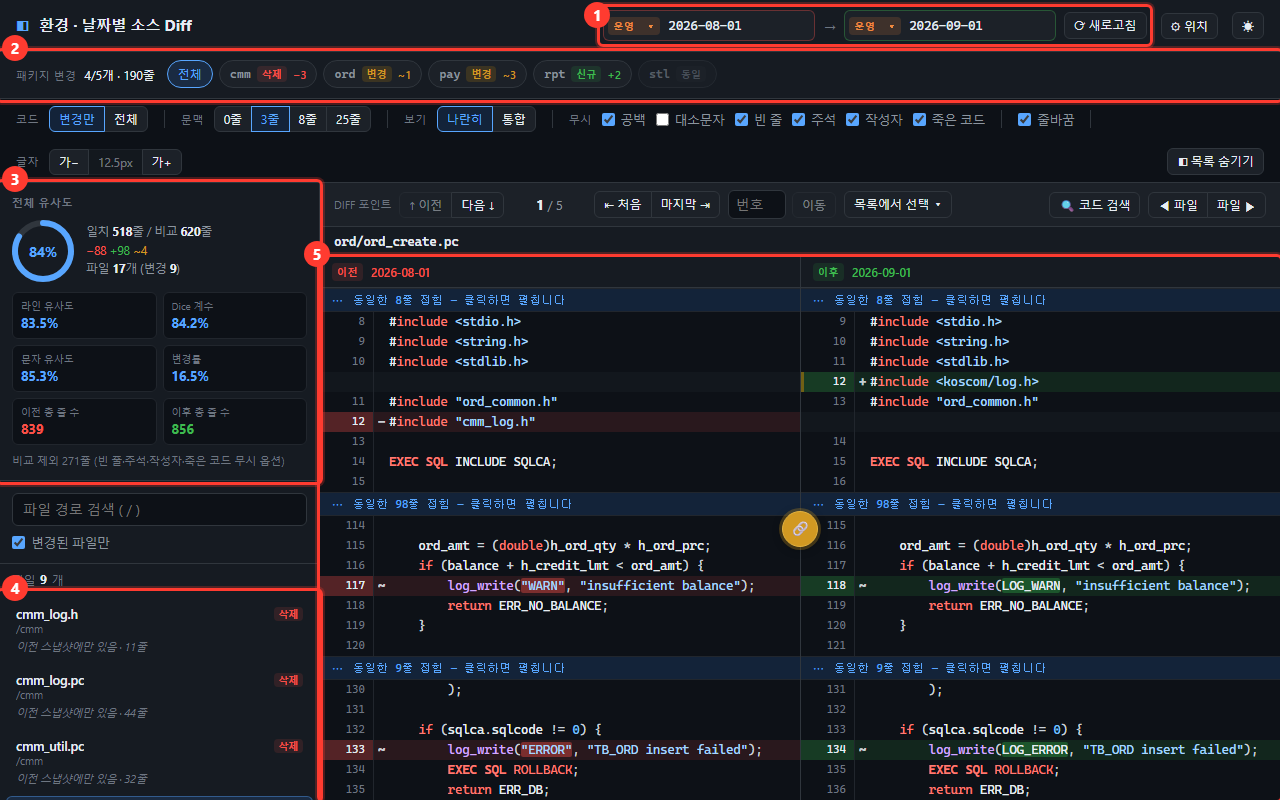
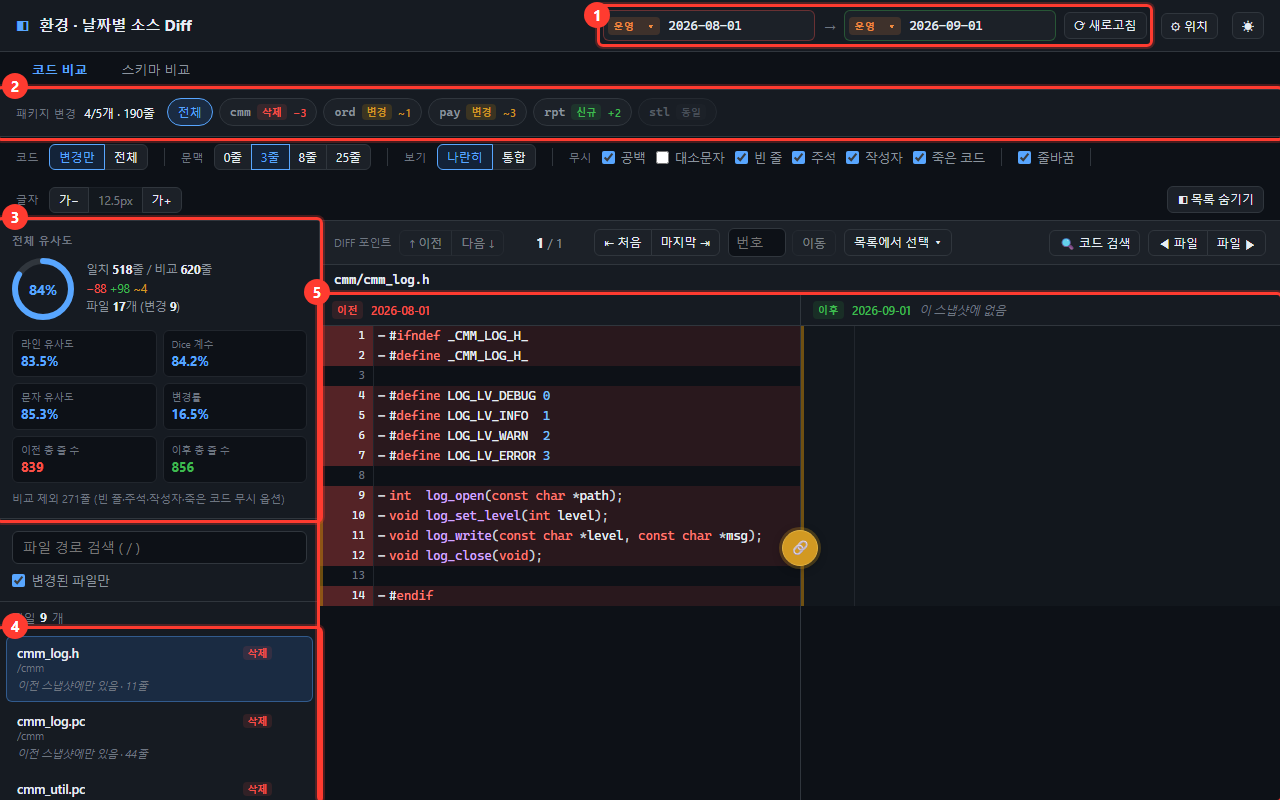
docs: 통합된 컨트롤을 반영하고 스키마 화면 캡처를 더한다
설명서 7장에 스키마 화면 그림(08-schema.png)과 영역 표를 넣고, "날짜가 저절로
맞춰집니다" 절을 "날짜는 위에서 똑같이 고릅니다" 로 다시 썼다. 운영↔운영 ·
테스트↔테스트가 된다는 것과, 탭마다 날짜를 따로 기억한다는 것을 적었다.

scripts/shot.html 에 스키마 장면을 더했다. 화면이 바뀌면 그림도 같이 낡으므로
나머지 일곱 장도 함께 다시 뽑았다 (모드 탭이 생겨 위쪽이 달라졌다).

Changed region(s): [[0.0, 0.0312, 1.0, 1.0], [0.7188, 0.9062, 0.9062, 1.0], [0.9375, 0.9062, 0.9688, 0.9688]]

diff --git a/scripts/shot.html b/scripts/shot.html
@@ -45,7 +45,7 @@
       const params = new URLSearchParams(location.search)
       const scene = params.get('scene') ?? 'overview'
 
-      const seed = (env = { left: 'prod', right: 'prod' }, excludeFile = '') => {
+      const seed = (env = { left: 'prod', right: 'prod' }, excludeFile = '', mode = 'code') => {
         // 프리셋을 고른 상태로 두면 **저장값이 아니라 프리셋의 현재 값**이 쓰인다
         // (features/settings/sourceSettings.ts). 제외 목록을 넣을 때는 풀어 둬야 먹는다.
         localStorage.setItem(
@@ -58,6 +58,11 @@
         localStorage.setItem('cd-env', JSON.stringify(env))
         localStorage.setItem('cd-theme', 'dark')
         localStorage.setItem('cd-scope', 'changed')
+        // 앞선 촬영이 남긴 값이 다음 장면으로 새면 엉뚱한 화면을 찍는다 — 매번 못 박는다
+        localStorage.setItem('cd-mode', mode)
+        localStorage.removeItem('cd-my-exclude')
+        localStorage.removeItem('cd-my-exclude-schema')
+        localStorage.removeItem('cd-schema-kinds')
       }
 
       const sleep = (ms) => new Promise((r) => setTimeout(r, ms))
@@ -156,6 +161,16 @@
           mark(doc, '.filelist .file-item', 3, 4)
         },
 
+        /* 8. 스키마 비교 — 어느 영역이 무엇인지 */
+        async schema(doc) {
+          mark(doc, '.mode-tabs', 1, 4)
+          mark(doc, '.snapshot-picker', 2)
+          mark(doc, '.schema-band .package-chips', 3, 4)
+          mark(doc, byText(doc, '.optionbar .group', '종류'), 4, 4)
+          mark(doc, '.filelist', 5, 4)
+          mark(doc, '.schema-view .schema-section', 6, 4)
+        },
+
         /* 7. 제외 목록으로 접어 둔 파일 — 펼친 상태로 찍는다 */
         async exclude(doc) {
           const toggle = await until(() => doc.querySelector('.excl-toggle'))
@@ -178,14 +193,18 @@
 
       const ENV = {
         crossenv: { left: 'prod', right: 'test' },
+        schema: { left: 'prod', right: 'test' },
       }
+
+      /** 스키마 화면을 찍는 장면들 — 씨앗과 기다릴 것이 다르다 */
+      const SCHEMA_SCENES = new Set(['schema'])
 
       /** 제외 기능은 규칙 파일을 가리켜야 보인다 — 저장소에 함께 든 견본을 쓴다 */
       const EXCLUDE = {
         exclude: './sample-code/exclude.txt',
       }
 
-      seed(ENV[scene], EXCLUDE[scene] ?? '')
+      seed(ENV[scene], EXCLUDE[scene] ?? '', SCHEMA_SCENES.has(scene) ? 'schema' : 'code')
 
       const frame = document.getElementById('app')
       frame.src = '/'
@@ -193,12 +212,16 @@
       await new Promise((r) => frame.addEventListener('load', r, { once: true }))
       const doc = frame.contentDocument
 
-      // 비교가 끝나 파일 목록이 뜰 때까지 기다린다
+      // 비교가 끝나 목록이 뜰 때까지 기다린다 (스키마는 테이블 목록이다)
       await until(() => doc.querySelector('.filelist .file-item'))
 
-      // 좌우가 모두 차 있는 파일을 연다.
-      // 삭제된 파일을 고르면 오른쪽 칸이 비어서, 설명서에 실으면 "왜 한쪽이 비었지" 로 읽힌다.
-      if (scene !== 'settings') {
+      if (SCHEMA_SCENES.has(scene)) {
+        // 표가 그려질 때까지 기다린다 — 목록만 뜬 상태로 찍으면 오른쪽이 비어 보인다
+        await until(() => doc.querySelector('.schema-rows .srow'))
+        await sleep(600)
+      } else if (scene !== 'settings') {
+        // 좌우가 모두 차 있는 파일을 연다.
+        // 삭제된 파일을 고르면 오른쪽 칸이 비어서, 설명서에 실으면 "왜 한쪽이 비었지" 로 읽힌다.
         const items = [...doc.querySelectorAll('.filelist .file-item')]
         const changed = items.find((e) => e.querySelector('.badge.s-modified')) ?? items[0]
         changed?.click()

diff --git a/docs/사용설명서.md b/docs/사용설명서.md
@@ -16,7 +16,9 @@
 | ④ | 파일 목록 | 바뀐 파일들. 누르면 오른쪽에 코드가 열립니다 → [4번](#4-바뀐-파일-고르기) |
 | ⑤ | 코드 비교 | 왼쪽·오른쪽을 나란히 → [5번](#5-코드-비교-보기) |
 
-**`스키마 비교` 탭**을 누르면 같은 좌우 선택으로 DB 테이블 정의를 견줍니다 → [7번](#7-데이터-스키마-비교하기)
+화면 맨 위의 **코드 비교 / 스키마 비교** 탭으로 무엇을 견줄지 고릅니다.
+**환경·날짜 고르는 자리는 둘이 똑같습니다** — 탭을 옮겨도 다시 고를 필요가 없습니다
+→ [7번](#7-데이터-스키마-비교하기)
 
 **쓰는 순서는 왼쪽 위에서 오른쪽 아래로 흐릅니다.**
 
@@ -660,7 +662,17 @@ Oracle 패키지(.pks/.pkb)의 `$IF FALSE $THEN` … `$END` 도 같은 규칙으
 ## 7. 데이터 스키마 비교하기
 
 화면 위 **`스키마 비교`** 탭을 누르면 같은 좌우 선택으로 **DB 테이블 정의**를 견줍니다.
-날짜·환경을 다시 고를 필요가 없습니다 — 위에서 고른 그대로 따라갑니다.
+
+![스키마 비교 화면](images/08-schema.png)
+
+| | 이름 | 하는 일 |
+| -- | ---- | ------- |
+| ① | 모드 탭 | 코드 비교 / 스키마 비교 |
+| ② | 비교할 곳 고르기 | **코드 비교와 같은 칸**입니다 → [7-2](#7-2-날짜는-위에서-똑같이-고릅니다) |
+| ③ | 종류 필터 | 컬럼·제약·인덱스가 바뀐 테이블만 추립니다 → [7-5](#7-5-종류-칩으로-좁히기) |
+| ④ | 종류 토글 | 한 종류를 통째로 끕니다 → [7-7](#7-7-안-볼-테이블컬럼-접어-두기) |
+| ⑤ | 테이블 목록 | 누르면 오른쪽에 정의가 열립니다 |
+| ⑥ | 컬럼·제약·인덱스 | 고른 테이블의 좌우 차이 → [7-1](#7-1-무엇을-보여주나) |
 
 > 이 탭이 안 보이거나 "설정돼 있지 않습니다" 가 뜨면, `change/config.ts` 의 프리셋에
 > **schemaRoot** 가 비어 있는 것입니다. 스키마 덤프가 쌓이는 폴더 경로를 적으면 켜집니다.
@@ -683,19 +695,20 @@ Oracle 패키지(.pks/.pkb)의 `$IF FALSE $THEN` … `$END` 도 같은 규칙으
 
 옵션 바의 **전체** 를 누르면 바뀌지 않은 줄까지 다 보입니다 (기본은 **변경만**).
 
-### 7-2. 날짜가 저절로 맞춰집니다
+### 7-2. 날짜는 위에서 똑같이 고릅니다
 
-스키마 덤프는 소스 배포와 **주기가 다릅니다.** 고른 날짜에 딱 맞는 덤프가 없는 것이 보통이라,
-그럴 때는 **그 날짜 이전 중 가장 가까운 것** — 그 시점에 실제로 걸려 있던 스키마 — 을 씁니다.
+**코드 비교와 같은 자리**입니다. 화면 맨 위의 환경·날짜 칸을 그대로 씁니다.
 
-무엇을 골랐는지는 위에 그대로 적힙니다.
+- 양쪽을 **다른 환경**으로 두면 운영 ↔ 테스트 비교 (기본값)
+- 양쪽을 **같은 환경**으로 두면 그 환경의 두 날짜 비교 (운영↔운영 · 테스트↔테스트)
 
-```
-운영  2026-08-01 →  [2026-07-28 ▾]
-      ↑ 고른 날짜      ↑ 실제로 읽은 스키마
-```
+스키마 덤프는 소스 배포와 **주기가 달라** 날짜 목록이 코드와 다릅니다. 그래서 탭마다
+고른 날짜를 따로 기억합니다 — 코드 탭에서 날짜를 바꿔도 스키마 탭 쪽은 그대로입니다.
 
-마음에 안 들면 옆 드롭다운에서 **직접 고르면** 됩니다.
+스키마 탭을 **처음 열 때**는 코드에서 보고 있던 날짜에 맞춰 줍니다. 딱 맞는 덤프가 없으면
+**그 날짜 이전 중 가장 가까운 것** — 그 시점에 실제로 걸려 있던 스키마 — 을 고릅니다.
+
+> 글자 크기는 옵션 바의 **가− / 가+** 로 바꿉니다. 코드 비교와 같은 값을 씁니다.
 
 ### 7-3. "시스템 N 접음" 은 무슨 뜻인가요
 

diff --git a/README.md b/README.md
@@ -513,14 +513,22 @@ IX_*_TMP          이름이 맞는 인덱스·제약 (어느 테이블이든)
 
 | 영역 | 하는 일 |
 | ---- | ------- |
-| 밴드 | 변경된 테이블 수 · 접은 제약 수 · **실제로 읽은 스키마 날짜** · 종류 필터 칩 |
+| 밴드 | 변경된 테이블 수 · 접은 제약 수 · 종류 필터 칩 |
 | 설명 줄 | 파일 맨 위 `#` 주석의 첫 줄. 좌우가 다르면 둘 다 보여준다 (그것도 변경이다) |
 | 왼쪽 목록 | 테이블 목록. 검색은 **컬럼 이름까지** 본다 |
 | 오른쪽 | 고른 테이블의 **컬럼 · 제약 · 인덱스** 3개 섹션 |
+| 옵션 바 | 줄 범위(변경만/전체) · **종류 토글** · 글자 크기 |
 
-**스키마 날짜는 자동으로 맞춘다.** 덤프 주기가 배포 주기와 달라 고른 날짜에 딱 맞는 파일이
-없는 것이 보통이다. 그때는 **그 날짜 이하로 가장 가까운 것**(그 시점에 걸려 있던 스키마)을 고르고,
-무엇을 골랐는지 밴드에 `2026-08-01 →` 로 남긴다. 마음에 안 들면 옆 드롭다운에서 직접 바꾼다.
+**좌우 선택은 코드 비교와 같은 헤더 컨트롤로 한다.** 환경도 날짜도 같은 자리에서 고르고,
+양쪽을 같은 환경으로 두면 그 환경의 두 날짜 비교가 된다 (운영↔운영 · 테스트↔테스트).
+기본은 코드 비교와 같은 운영 ↔ 테스트다.
+
+**목록만 갈아 끼운다.** 스키마 덤프는 배포와 주기가 달라 날짜가 코드와 다르므로, 탭마다
+자기 목록과 자기 선택을 따로 기억한다 — 탭을 오가도 상대 쪽이 흔들리지 않는다.
+스키마 탭을 처음 열 때는 **코드에서 고른 날짜 이하로 가장 가까운 스키마**를 골라 준다
+(그 시점에 실제로 걸려 있던 스키마). 그 뒤로는 고른 값이 그대로 남는다.
+
+글자 크기는 코드 화면과 **같은 값을 나눠 쓴다** — 탭을 옮길 때마다 글자가 변하면 거슬린다.
 
 **기본키가 바뀌면 `⚠` 를 올린다.** 빈도는 낮고 위험은 크다 (데이터 이관·중복).
 신규·삭제된 테이블에는 붙이지 않는다 — 거기서는 당연한 일이라 알림이 흔해지면 진짜 신호가 묻힌다.
